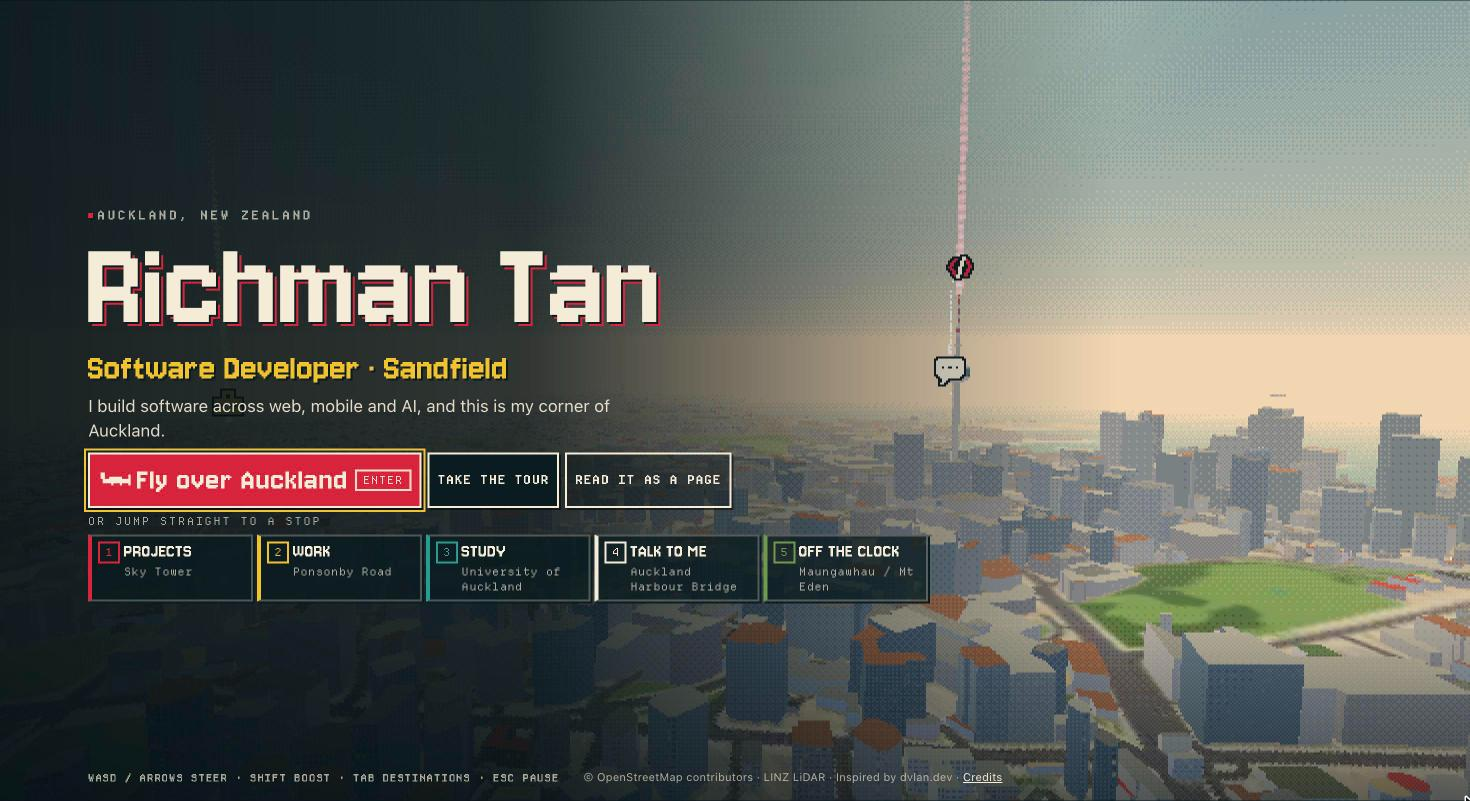
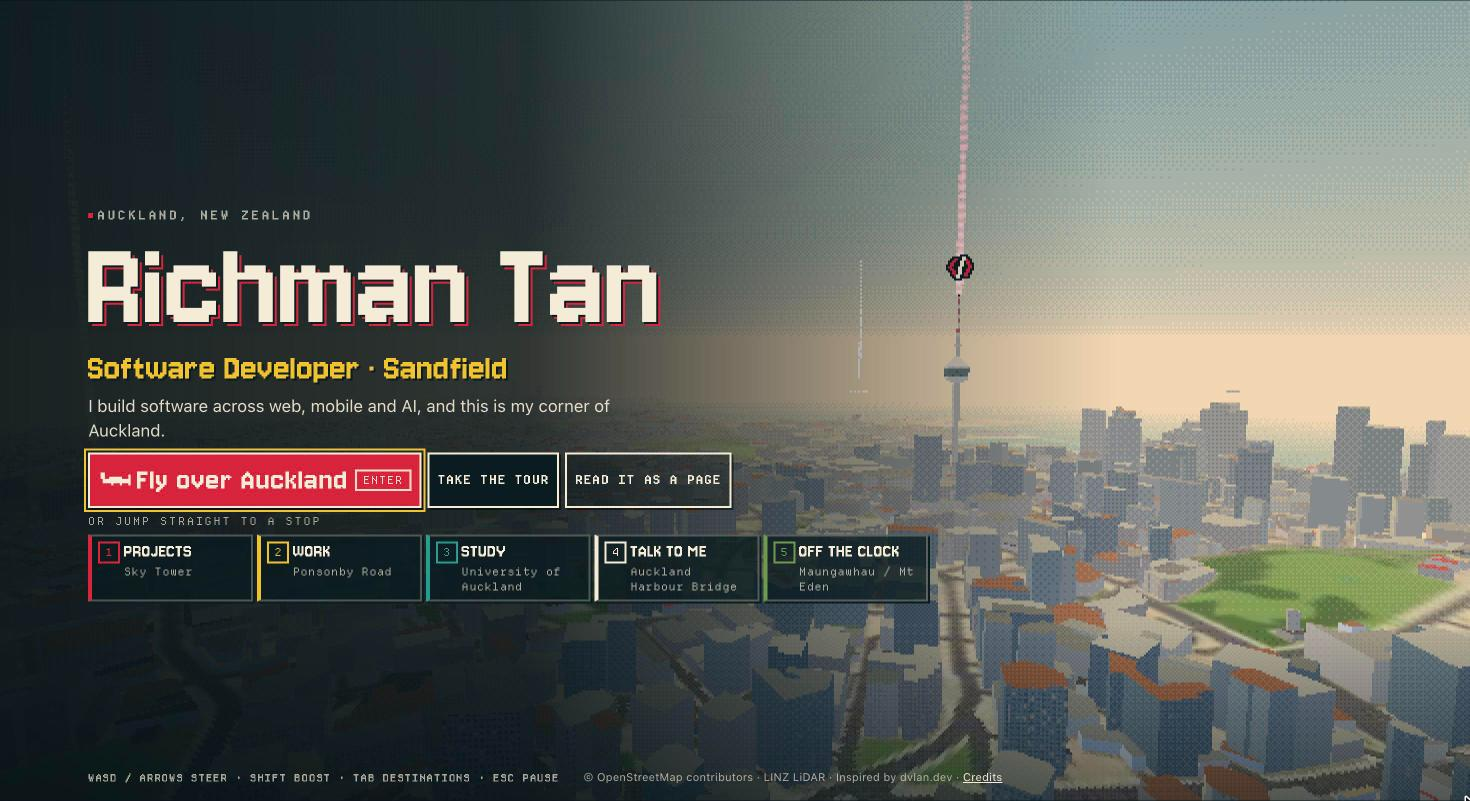
Touch: a way into the pause menu, a clear prompt, and buttons that keep their look
Checked in a phone-sized frame with the touch media queries switched on, which
turned up three faults a narrow desktop window never shows:

- There was no way to open the pause menu, and so the settings, without a
  keyboard. A MENU button (top left) now does it, through a new 'menu' action
  that the gamepad's Start button uses too.
- The approach prompt sat on top of the HUD panel in portrait. It now sits
  above it, and no longer wraps at half the screen's width.
- touch.css styled every .aw-btn on the page once it loaded, so the UI's own
  buttons turned rounded and teal on phones. Its rules are scoped to the
  touch overlay.

Also on phones: the compass drops below the attribution it used to overlap,
the briefing sheet shows "next stop" only on its last page to leave room to
read, and key hints are hidden on buttons.

Title screen: beacon icons are drawn over everything in the 3D view, so they
showed through the title card on top of its text. Icons under the card are
now skipped (all of them on a narrow screen); the README's title screenshot
is retaken without one.

diff --git a/src/ui/styles/ui.css b/src/ui/styles/ui.css
@@ -219,7 +219,8 @@
 
 .aw-prompt {
   position: absolute; left: 50%; bottom: calc(var(--safe-b) + 150px); transform: translateX(-50%);
-  max-width: calc(100vw - 24px); text-align: center; text-transform: uppercase; letter-spacing: 0.06em;
+  /* max-content: without it a centred box is squeezed to half the screen and wraps early */
+  width: max-content; max-width: calc(100vw - 24px); text-align: center; text-transform: uppercase; letter-spacing: 0.06em;
   display: flex; flex-wrap: wrap; align-items: center; justify-content: center; gap: 0 calc(var(--u) * 3);
   padding: 0 calc(var(--u) * 4); border: var(--u) solid var(--kowhai); background: var(--panel); color: var(--cream);
   pointer-events: auto; min-height: 44px; animation: aw-pulse 1.4s steps(2) infinite;
@@ -495,6 +496,10 @@
 @media (pointer: coarse) {
   .aw-hud__deck { bottom: calc(var(--safe-b) + 6px); }
   .aw-attrib { bottom: auto; top: calc(var(--safe-t) + 2px); right: calc(var(--safe-r) + 6px); }
+  /* The attribution takes the top edge, so the compass drops below it, and the autopilot chip and
+     toasts drop below the MENU button (input/touch.css) that sits under the compass. */
+  .aw-hud__compass { top: calc(var(--safe-t) + 22px); }
+  .aw-hud__ap, .aw-toasts { top: calc(var(--safe-t) + 112px); }
 }
 @media (pointer: coarse) and (orientation: landscape) {
   .aw-hud__deck { left: calc(var(--safe-l) + 190px); right: calc(var(--safe-r) + 120px); transform: none; width: auto; }
@@ -505,6 +510,8 @@
 }
 @media (pointer: coarse) and (orientation: portrait) {
   .aw-hud__deck { bottom: calc(var(--safe-b) + 190px); }
+  /* above the HUD panel, which itself sits above the stick and buttons */
+  .aw-prompt { bottom: calc(var(--safe-b) + 310px); }
   .aw-hud__alt, .aw-hud__alttape { display: none; }
   .aw-hud__deck { grid-template-columns: auto minmax(0, 1fr) auto; }
 }
@@ -608,3 +615,15 @@ html[data-motion='reduced'] .aw-ui *, html[data-motion='reduced'] .aw-ui *::befo
 .aw-ui .aw-hud__sound[aria-pressed='true'] { color: var(--kowhai); border-color: var(--kowhai); }
 .aw-ui[data-state='briefing'] .aw-hud__sound, .aw-ui[data-state='chat'] .aw-hud__sound { display: none; }
 @media (max-width: 760px) { .aw-ui .aw-hud__sound { top: calc(var(--safe-t) + 44px); } }
+/* On a touch screen that corner is the MENU button; sound is one tap further, in its settings. */
+@media (pointer: coarse) { .aw-ui .aw-hud__sound { display: none; } }
+
+/* ------------------------------------------------------ phones: room to read */
+/* The bottom sheet is short. Keep its footer to the paging row until the last page, where "next
+   stop" belongs anyway, and drop key hints nobody can press. */
+@media (max-width: 760px) {
+  .aw-briefing:not([data-last='true']) .aw-briefing__onward { display: none; }
+}
+@media (pointer: coarse) {
+  .aw-briefing__action .aw-kbd, .aw-briefing__onward .aw-kbd { display: none; }
+}

diff --git a/src/app/app.ts b/src/app/app.ts
@@ -352,6 +352,20 @@ export function startApp(): void {
     // Walking again (just landed, or a screen's panel closed): keys go back to the scene.
     if (next.kind === 'room' && next.panel === null && !(prev.kind === 'room' && prev.panel === null)) ui.focusScene();
     updatePrompt();
+    // The title card comes and goes with the state; measure it once the UI has been synced.
+    queueMicrotask(applyIconClip);
+  }
+
+  /**
+   * Beacon icons are drawn over everything in the 3D view, so behind the title screen they would
+   * sit on top of its text. Hide the ones under the text block (all of them on a narrow screen,
+   * where the block spans the width); the ones beside it, around the Sky Tower, stay.
+   */
+  function applyIconClip() {
+    if (!loaded) return;
+    const right = ui.titleRight();
+    // A little past the block's edge, as a fraction of the view: -1 is its left edge, 1 its right.
+    loaded.world.setIconClip(right === null ? null : Math.min(1, ((right + 24) / innerWidth) * 2 - 1));
   }
 
   function setInputMode(s: AppState) {
@@ -402,6 +416,12 @@ export function startApp(): void {
   }
 
   function onAction(action: InputAction) {
+    // The pause menu (and with it the settings) from anywhere, not only by backing out of flight:
+    // a touch screen has no Esc key, and inside a room "back" means leave.
+    if (action === 'menu') {
+      dispatch(state.kind === 'paused' && state.reason === 'menu' ? { type: 'RESUME' } : { type: 'PAUSE', reason: 'menu' });
+      return;
+    }
     const hot = stopForHotkey(action);
     switch (state.kind) {
       case 'title':
@@ -498,6 +518,7 @@ export function startApp(): void {
     idleFrames = 0;
   };
   addEventListener('resize', redraw);
+  addEventListener('resize', () => applyIconClip());
 
   function setDetailLevel(level: number) {
     detailLevel = Math.min(Math.max(level, 0), ladder.length - 1);
@@ -626,6 +647,7 @@ export function startApp(): void {
       applyGraphics();
       applyMotion();
       applyLook();
+      applyIconClip();
       if (state.kind === 'loading') dispatch({ type: 'LOADED' });
       requestAnimationFrame(frame);
     },

diff --git a/src/app/contracts.ts b/src/app/contracts.ts
@@ -167,6 +167,7 @@ export type InputAction =
   | 'prev' // ArrowLeft / A in dialogs
   | 'help' // H
   | 'nextStop' // N in a briefing: fly on to the next stop not yet seen
+  | 'menu' // the pause menu, from anywhere (touch MENU button, gamepad Start); Esc gets there by backing out
   | 'select1'
   | 'select2'
   | 'select3'
@@ -231,6 +232,11 @@ export interface WorldScene {
   render(camera: Camera): void;
   /** Call on window resize; returns the internal (low-res) size. */
   resize(cssWidth: number, cssHeight: number): { width: number; height: number };
+  /**
+   * Hide beacon icons left of this x (clip space, -1 = left edge of the view, 1 = right), or show
+   * them all with null. Used behind the title card, where an icon would sit on top of the text.
+   */
+  setIconClip(left: number | null): void;
   /** Sky, light, fog and water colours for the time of day (src/shared/timeOfDay.ts). */
   setLook(look: Look): void;
   /** Change draw distance and render resolution on the fly (the frame-rate governor, or a pinned setting). */
@@ -322,6 +328,8 @@ export interface UiApi {
   setProgress(p: ProgressView): void;
   /** Cut through black (a jump to another stop without flying there). */
   flash(): void;
+  /** Right edge (CSS px) of the title screen's text block while it is showing, else null. */
+  titleRight(): number | null;
   /** Where "Read it as a page" on the error screen leads, e.g. /page/#projects-wie-academy for a link to that page. */
   setPageHref(href: string): void;
 }

diff --git a/src/input/touch.ts b/src/input/touch.ts
@@ -3,7 +3,7 @@ import './touch.css';
 
 const STICK_R = 54;
 
-/** Virtual stick (bottom left) and BOOST / MAP / READ buttons (bottom right). */
+/** Virtual stick (bottom left), BOOST / MAP / READ buttons (bottom right) and MENU (top left). */
 export function createTouchControls(root: HTMLElement, core: InputCore): { dispose(): void } {
   const wrap = document.createElement('div');
   wrap.className = 'aw-touch';
@@ -29,7 +29,9 @@ export function createTouchControls(root: HTMLElement, core: InputCore): { dispo
   const map = mk('MAP', '');
   const read = mk('READ', '');
   btns.append(boost, map, read);
-  wrap.append(stick, btns);
+  // The only way to the pause menu, and so to the settings, without a keyboard.
+  const menu = mk('MENU', 'aw-btn-menu');
+  wrap.append(stick, btns, menu);
   root.append(wrap);
   // The stick and buttons only mean something while flying or walking; over the title screen, a
   // briefing sheet or the chat they just cover the page (each of those has its own buttons).
@@ -92,6 +94,7 @@ export function createTouchControls(root: HTMLElement, core: InputCore): { dispo
   const onRead = () => core.trigger('briefing');
   map.addEventListener('click', onMap);
   read.addEventListener('click', onRead);
+  menu.addEventListener('click', () => core.trigger('menu'));
 
   return {
     dispose() {

diff --git a/src/input/touch.css b/src/input/touch.css
@@ -44,7 +44,8 @@
   justify-items: end;
   pointer-events: none;
 }
-.aw-btn {
+/* Scoped to the overlay: the UI has its own .aw-btn (src/ui/styles/ui.css), and this sheet loads later. */
+.aw-touch .aw-btn {
   pointer-events: auto;
   touch-action: none;
   min-width: 72px;
@@ -57,12 +58,29 @@
   font: 700 14px/1 ui-monospace, 'Departure Mono', monospace;
   letter-spacing: 0.08em;
 }
-.aw-btn:active,
-.aw-btn[data-on='true'] {
+.aw-touch .aw-btn:active,
+.aw-touch .aw-btn[data-on='true'] {
   background: rgb(215 38 61 / 0.85);
 }
-.aw-btn-boost {
+.aw-touch .aw-btn-boost {
   grid-column: 1 / span 2;
   min-height: 72px;
   width: 100%;
+}
+.aw-touch .aw-btn-menu {
+  position: absolute;
+  left: max(12px, env(safe-area-inset-left));
+  /* under the compass tape, which spans the top of a portrait screen */
+  top: calc(env(safe-area-inset-top, 0px) + 64px);
+  min-width: 64px;
+  min-height: 40px;
+  padding: 0 12px;
+  border-radius: 10px;
+  font-size: 12px;
+}
+@media (orientation: landscape) {
+  /* the compass is in the middle there, so the corner is free */
+  .aw-touch .aw-btn-menu {
+    top: calc(env(safe-area-inset-top, 0px) + 8px);
+  }
 }

diff --git a/src/render/uniforms.ts b/src/render/uniforms.ts
@@ -19,6 +19,12 @@ export interface SharedUniforms {
   uAmbient: Uniform<Vector3>;
   /** 0 by day to 1 at night: windows, floodlights, headlights and stars come up with it. */
   uNight: Uniform<number>;
+  /**
+   * Beacon icons whose centre is left of this x (clip space, -1 = left edge, 1 = right) are not
+   * drawn. Icons ignore depth so they can be seen through buildings; that also lets them show
+   * through the title card, on top of its text. -2 draws them all.
+   */
+  uIconClipLeft: Uniform<number>;
   uWall: Uniform<Vector3[]>;
   uRoof: Uniform<Vector3[]>;
 }
@@ -52,6 +58,7 @@ export function createSharedUniforms(fogFar: number): SharedUniforms {
     uLightLo: { value: new Vector3() },
     uAmbient: { value: new Vector3(1, 1, 1) },
     uNight: { value: 0 },
+    uIconClipLeft: { value: -2 },
     uWall: { value: palette(WALL_PALETTE) },
     uRoof: { value: palette(ROOF_PALETTE) },
   };

diff --git a/src/input/gamepad.ts b/src/input/gamepad.ts
@@ -8,7 +8,7 @@
  *   X            land at a stop with a room
  *   B            back / close
  *   Y            destinations map
- *   Start        pause
+ *   Start        pause menu (and again to resume)
  *   Select       show the keys
  *   D-pad ← →    page through a briefing, move through the map list
  *   LB           next stop (in a briefing)
@@ -54,7 +54,7 @@ export function readPad(pad: PadSnapshot, prev: readonly boolean[], mode: 'fligh
   if (went(BUTTON.x)) actions.push('interact');
   if (went(BUTTON.b)) actions.push('back');
   if (went(BUTTON.y)) actions.push('nav');
-  if (went(BUTTON.start)) actions.push('back');
+  if (went(BUTTON.start)) actions.push('menu');
   if (went(BUTTON.select)) actions.push('help');
   if (went(BUTTON.left)) actions.push('prev');
   if (went(BUTTON.right)) actions.push('next');

diff --git a/src/render/materials.ts b/src/render/materials.ts
@@ -510,10 +510,14 @@ void main() {
   vec4 cv = viewMatrix * vec4(uCenter, 1.0);
   float dist = max(-cv.z, 0.5);
   float worldPerPx = 2.0 * dist / (projectionMatrix[1][1] * uResY);
+  // Where the icon's centre lands on screen, before the quad is spread around it.
+  vec4 centre = projectionMatrix * cv;
   cv.xy += position.xy * uPxSize * worldPerPx;
   gl_Position = projectionMatrix * cv;
   ${FAR_CLAMP}
-}`.replace('void main', 'uniform float uResY;\nvoid main'),
+  // Under the title card: drop the whole icon (all four corners agree, so it never half-shows).
+  if (centre.w > 0.0 && centre.x / centre.w < uIconClipLeft) gl_Position = vec4(2.0, 2.0, 2.0, 1.0);
+}`.replace('void main', 'uniform float uResY;\nuniform float uIconClipLeft;\nvoid main'),
     /* glsl */ `
 in vec2 vUv;
 uniform sampler2D uTex;

diff --git a/src/ui/views/briefing.ts b/src/ui/views/briefing.ts
@@ -103,6 +103,8 @@ export function createBriefingView(content: SiteContent, dispatch: (e: AppEvent)
       dots.hidden = n < 2;
       back.setAttribute('aria-disabled', String(idx <= 0));
       next.setAttribute('aria-disabled', String(idx >= n - 1));
+      // On a phone the sheet is short, so "next stop" waits until the last page (see ui.css).
+      el.dataset.last = String(idx >= n - 1);
       all.setAttribute('href', stopHash(stopId, idx > 0 ? page.id : undefined));
       setText(status, `Page ${idx + 1} of ${n}: ${page.title}`);
     },

diff --git a/tests/gamepad.test.ts b/tests/gamepad.test.ts
@@ -50,7 +50,7 @@ describe('gamepad', () => {
 
   it('covers every action the keyboard has', () => {
     const all = readPad(pad({ down: [0, 1, 2, 3, 4, 8, 9, 14, 15] }), [], 'flight').actions;
-    expect(all).toEqual(['briefing', 'interact', 'back', 'nav', 'back', 'help', 'prev', 'next', 'nextStop']);
+    expect(all).toEqual(['briefing', 'interact', 'back', 'nav', 'menu', 'help', 'prev', 'next', 'nextStop']);
   });
 
   it('A confirms in a dialog (Enter) and reads or uses while flying (Space)', () => {

diff --git a/src/ui/index.ts b/src/ui/index.ts
@@ -219,6 +219,11 @@ export const createUi: CreateUi = ({ root, content, dispatch, settings }): UiApi
     flash() {
       room.flash();
     },
+    titleRight() {
+      if (title.el.hidden) return null;
+      const r = title.card.getBoundingClientRect();
+      return r.width > 0 ? r.right : null;
+    },
     setPageHref(href: string) {
       error.setPageHref(href);
     },

diff --git a/src/render/worldScene.ts b/src/render/worldScene.ts
@@ -242,6 +242,10 @@ export class WorldSceneImpl implements WorldScene {
     this.lastRender = t1;
   }
 
+  setIconClip(left: number | null): void {
+    this.shared.uIconClipLeft.value = left ?? -2;
+  }
+
   setLook(look: Look): void {
     applyLook(this.shared, look);
     const sky = (this.sky.material as ShaderMaterial).uniforms;
